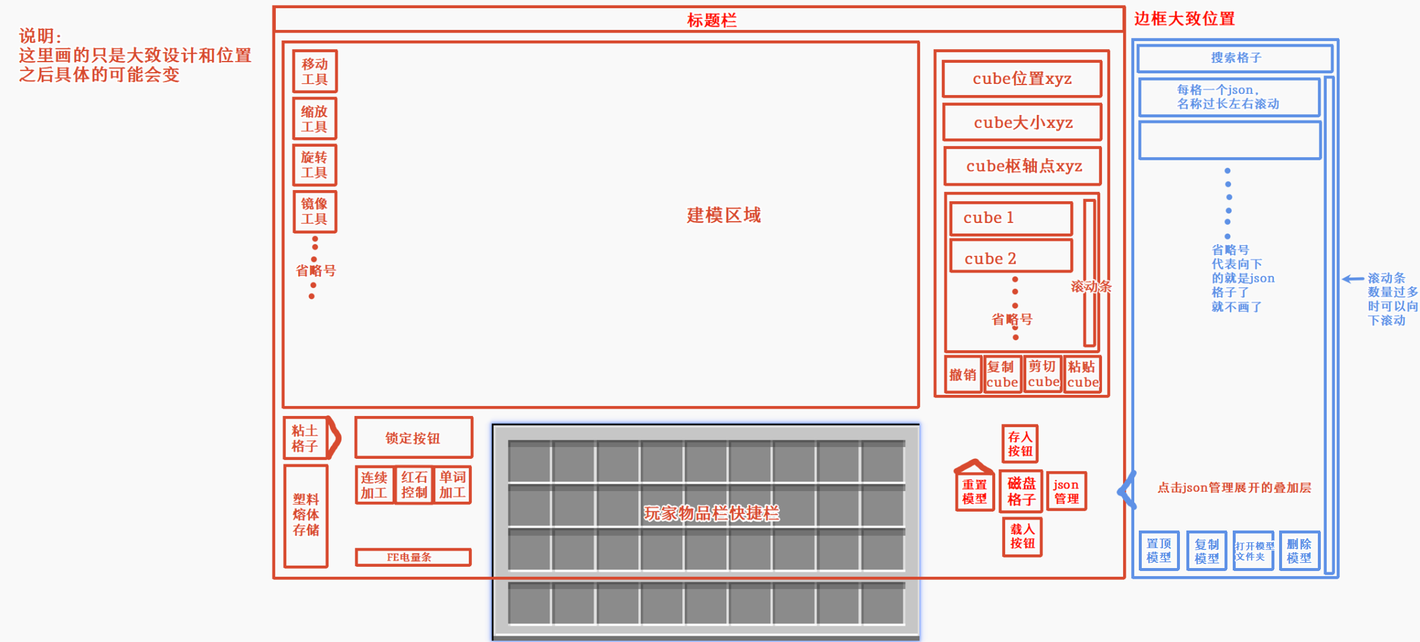
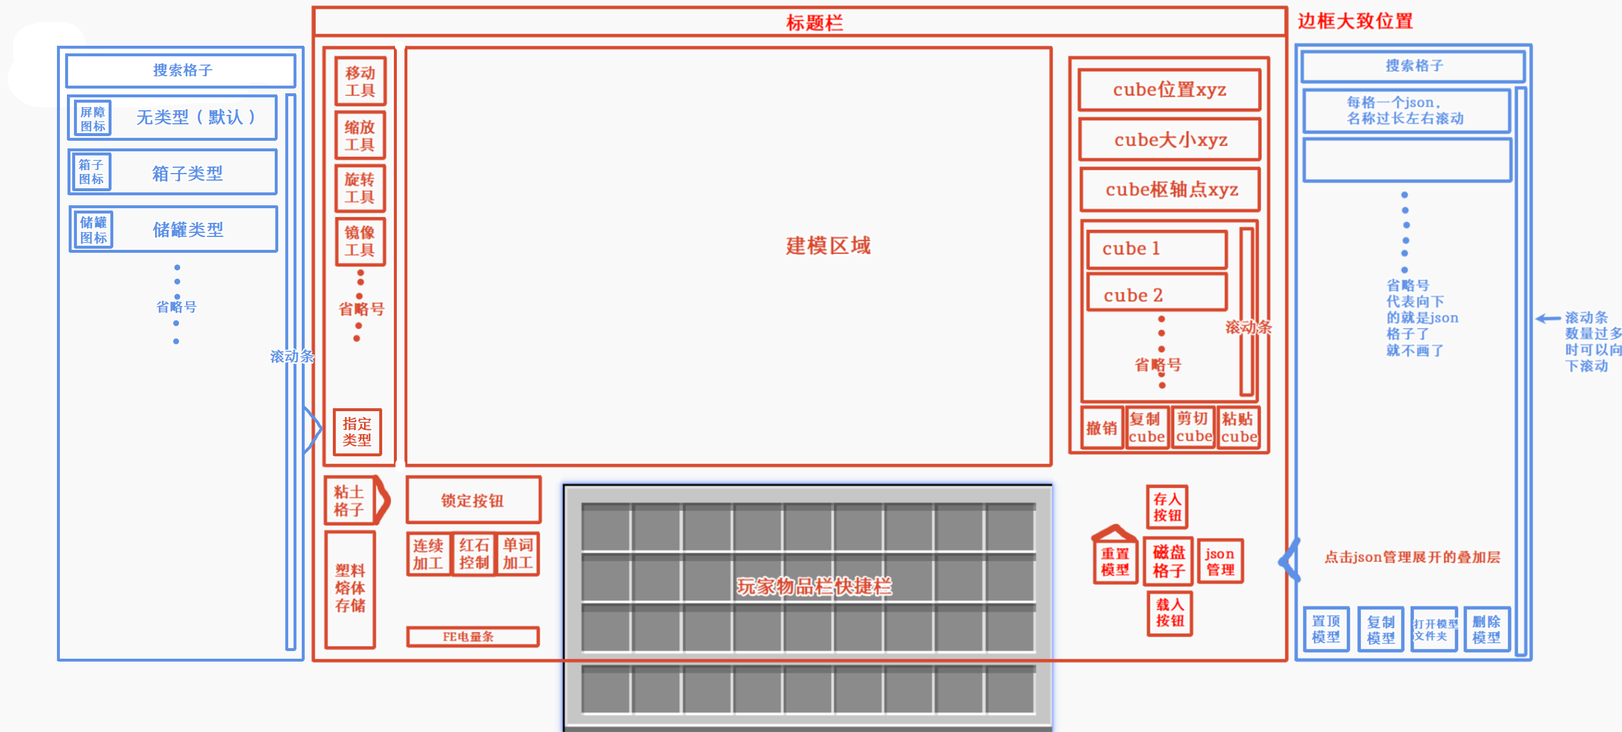
文档更新

diff --git a/docs/plastic-forming-chamber-todo.zh_cn.md b/docs/plastic-forming-chamber-todo.zh_cn.md
@@ -10,15 +10,17 @@
 
 ## 0. 资源清单
 
-| 资源 | 需要制作的文件 | 内容 |
-| --- | --- | --- |
-| 塑料成型舱未锁定模型 | 方块模型 JSON | 成型舱未锁定时使用的完整方块模型 |
-| 塑料成型舱锁定模型 | 方块模型 JSON | 成型舱锁定后使用的完整方块模型 |
-| 塑料成型区边框 | 方块模型 JSON | 成型舱后方的3x3x3区域的边框模型 |
-| 塑料成型舱物品模型 | 物品模型 JSON | 背包、手持和掉落时使用的模型 |
-| 成型舱 GUI 主背景 | PNG 贴图 | 成型舱主界面的完整背景和各功能区域底图 |
-| JSON 管理叠加层 | PNG 贴图 | 点击“JSON 管理”后展开的叠加层背景 |
-| 成型舱 GUI 控件图集 | PNG 图集 | 全部建模操作按钮、机器控制按钮、磁盘与 JSON 管理按钮、输入框、滚动条、槽位和资源条； |
+| 资源           | 需要制作的文件   | 内容                                                      |
+|--------------|-----------|---------------------------------------------------------|
+| 塑料成型舱未锁定模型   | 方块模型 JSON | 成型舱未锁定时使用的完整方块模型                                        |
+| 塑料成型舱锁定模型    | 方块模型 JSON | 成型舱锁定后使用的完整方块模型                                         |
+| 塑料成型区边框      | 方块模型 JSON | 成型舱后方的3x3x3区域的边框模型                                      |
+| 塑料成型舱物品模型    | 物品模型 JSON | 背包、手持和掉落时使用的模型                                          |
+| 成型舱 GUI 主背景  | PNG 贴图    | 成型舱主界面的完整背景和各功能区域底图                                     |
+| 类型选择叠加层      | PNG 贴图    | 点击“指定类型”后从主界面左侧展开的叠加层背景                                 |
+| JSON 管理叠加层   | PNG 贴图    | 点击“JSON 管理”后展开的叠加层背景                                    |
+| 成型舱 GUI 控件图集 | PNG 图集    | 全部建模操作按钮、类型指定按钮与图标、机器控制按钮、磁盘与 JSON 管理按钮、输入框、滚动条、槽位和资源条； |
+| 标准塑料贴图       | PNG 贴图    | 资源文件里16x16的标准塑料块单个面的贴图，用于程序生成的基准                        |
 
 ## 1. 核心目标和已经确定的原则
 
@@ -49,15 +51,15 @@
 
 ### 2.2 世界显示和碰撞阶段
 
-| 阶段 | 成型区域显示 | 区域碰撞 | 8 B 暂存罐的外部接口 | 向成型区域泵送 |
-| --- | --- | --- | --- | --- |
-| 空模型 | 只显示 3x3x3 边框 | 无碰撞 | 随时允许输入，按第 4.3 节允许抽出 | 不泵送 |
-| 正在建模 | 边框中心实时显示空间投影模型 | 投影与区域均无碰撞 | 随时允许输入和抽出 | 不泵送 |
-| 等待区域清空 | 冻结本次模型；粘土动画尚未开始，GUI 显示“区域被阻塞” | 无碰撞 | 随时允许输入和抽出 | 不泵送 |
-| 粘土填充动画 | 模型投影隐藏，粘土块纹理从 `-Y` 向 `+Y` 逐层快速升起 | 动画开始的同一事务内立即变为完整 3x3x3 碰撞，暂停时仍保持 | 随时允许输入和抽出 | 不泵送，必须等粘土填充完毕 |
-| 模具完成/灌入熔体 | 27 格外观均为填满的粘土块纹理，内部熔体不穿透显示 | 完整 3x3x3 碰撞 | 随时允许输入和抽出 | 有效供电且模型保持锁定时，以固定 `2 B/gt` 泵送至 `M(V)` |
-| 落砧加工 | 内部塑料固化；27 格产生粘土块破坏粒子，粘土外观全部消失 | 事务提交时移除模具的完整碰撞 | 随时允许输入和抽出 | 事务期间暂停，不把暂存熔体瞬间并入本批 |
-| 加工完成/等待下一周期 | 塑料制品与等量回收粘土球均在原 3x3x3 成型区域中产生 | 区域部件恢复无碰撞；只保留塑料实体自身碰撞，物品结果为掉落物 | 随时允许输入和抽出 | 下一副模具完成前不泵送 |
+| 阶段          | 成型区域显示                           | 区域碰撞                             | 8 B 暂存罐的外部接口        | 向成型区域泵送                              |
+|-------------|----------------------------------|----------------------------------|---------------------|--------------------------------------|
+| 空模型         | 只显示 3x3x3 边框                     | 无碰撞                              | 随时允许输入，按第 4.3 节允许抽出 | 不泵送                                  |
+| 正在建模        | 边框中心实时显示空间投影模型                   | 投影与区域均无碰撞                        | 随时允许输入和抽出           | 不泵送                                  |
+| 等待区域清空      | 冻结本次模型；粘土动画尚未开始，GUI 显示“区域被阻塞”    | 无碰撞                              | 随时允许输入和抽出           | 不泵送                                  |
+| 粘土填充动画      | 模型投影隐藏，粘土块纹理从 `-Y` 向 `+Y` 逐层快速升起 | 动画开始的同一事务内立即变为完整 3x3x3 碰撞，暂停时仍保持 | 随时允许输入和抽出           | 不泵送，必须等粘土填充完毕                        |
+| 模具完成/灌入熔体   | 27 格外观均为填满的粘土块纹理，内部熔体不穿透显示       | 完整 3x3x3 碰撞                      | 随时允许输入和抽出           | 有效供电且模型保持锁定时，以固定 `2 B/gt` 泵送至 `M(V)` |
+| 落砧加工        | 内部塑料固化；27 格产生粘土块破坏粒子，粘土外观全部消失    | 事务提交时移除模具的完整碰撞                   | 随时允许输入和抽出           | 事务期间暂停，不把暂存熔体瞬间并入本批                  |
+| 加工完成/等待下一周期 | 塑料制品与等量回收粘土球均在原 3x3x3 成型区域中产生    | 区域部件恢复无碰撞；只保留塑料实体自身碰撞，物品结果为掉落物   | 随时允许输入和抽出           | 下一副模具完成前不泵送                          |
 
 1. 建模投影是空间投影，不参与任何碰撞、寻路或实体推动。模型每次有效修改后，世界内投影实时更新。
 2. 点击锁定或自动锁定会先冻结模型，但只在粘土填充动画真正开始前检查一次 3x3x3 区域。只要玩家、掉落物、上一件塑料实体或其他实体与将启用的完整碰撞相交，就不开始动画、不扣取本周期第一份粘土，并在 GUI 显示“区域被阻塞”；条件清除后自动重试。
@@ -98,23 +100,24 @@
 
 ### 3.3 GUI 设计草图和主界面
 
-下图是当前已经确定的 GUI 设计稿。红框为常驻主界面，蓝框为点击“JSON 管理”后才展开的右侧叠加层。草图中的文字只说明功能和大致位置，不是最终美术稿，也不是可直接照图实现的像素坐标规格；资源制作与最终版修订期间可以调整具体间距和比例，但不得遗漏本节已经确定的控件、状态或红/蓝两层关系。
+下图是当前已经确定的 GUI 设计稿。红框为常驻主界面；左侧蓝框是点击“指定类型”后展开的类型选择叠加层，右侧蓝框是点击“JSON 管理”后展开的模型管理叠加层。草图中的文字只说明功能和大致位置，不是最终美术稿，也不是可直接照图实现的像素坐标规格；资源制作与最终版修订期间可以调整具体间距和比例，但不得遗漏本节已经确定的控件、状态或三部分界面关系。
 
 ![塑料成型舱 GUI 设计草图](assets/plastic-forming-chamber/gui-layout-draft.png)
 
-当前设计稿阶段不提供元素坐标清单。所有模型、贴图及其他 GUI 资源完成后，最终实现版必须在本节定义统一的 GUI 像素坐标原点，并逐项列出常驻主界面、建模程序宿主区域、玩家物品栏和 JSON 管理叠加层中每一个元素的像素坐标位置。TODO 实现只能使用该最终坐标规格，不能测量本草图或凭视觉比例反推坐标。
+当前设计稿阶段不提供元素坐标清单。所有模型、贴图及其他 GUI 资源完成后，最终实现版必须在本节定义统一的 GUI 像素坐标原点，并逐项列出常驻主界面、建模程序宿主区域、玩家物品栏、类型选择叠加层和 JSON 管理叠加层中每一个元素的像素坐标位置。TODO 实现只能使用该最终坐标规格，不能测量本草图或凭视觉比例反推坐标。
 
-| 大致位置 | 区域 | 必须包含的内容 |
-| --- | --- | --- |
-| 顶部整行 | 标题栏 | “塑料成型舱”标题、关闭入口，以及不遮挡建模的宿主窗口区域 |
-| 左侧竖栏 | 建模工具 | 草图指定的移动、缩放尺寸、旋转、镜像，以及新建 cube/平面、选择等必要扩展工具；当前工具有明确选中态和悬浮提示 |
-| 中央主体 | 嵌入式三维建模程序 | 与世界成型区域一一对应的 3x3x3 大网格、东西南北/上下标识、机器连接位置、透视/正交相机、选择高亮、操纵轴和制造预览 |
-| 主体右栏上部 | 选中元素属性 | 当前 cube/平面的位置 `x/y/z`、大小 `x/y/z`、枢轴点 `x/y/z` 和旋转；数值可直接输入并参与撤销/重做 |
-| 主体右栏中下部 | 元素列表与编辑 | 可滚动的 cube/平面/分组树，以及撤销、重做、复制、剪切和粘贴；列表选择与视口选择双向同步 |
-| 右栏属性区内 | 制造分析 | 普通制品/箱子/储罐选择、验证结果、容量、实体积、粘土总需求、当前可成型体积和部分加工降级警告；托盘本期不出现在类型选择器中 |
-| 左下机器区 | 原料与运行控制 | 单个粘土球过滤槽、塑料熔体竖向储量条、锁定/解锁按钮、三种生产模式和 FE 电量条 |
-| 下方中央 | 玩家物品栏 | 完整玩家背包和快捷栏，槽位行为遵循原版容器界面 |
-| 右下蓝图区 | 磁盘与模型管理 | 重置模型、磁盘格、磁盘“存入”“载入”按钮和“JSON 管理”开关；机器运行提示在不遮挡这些控件的位置显示 |
+| 大致位置    | 区域        | 必须包含的内容                                                                |
+|---------|-----------|------------------------------------------------------------------------|
+| 顶部整行    | 标题栏       | “塑料成型舱”标题、关闭入口，以及不遮挡建模的宿主窗口区域                                          |
+| 左侧竖栏    | 建模工具与类型入口 | 草图指定的移动、缩放尺寸、旋转、镜像，以及新建 cube/平面、选择等必要扩展工具；下部放置“指定类型”按钮；当前工具有明确选中态和悬浮提示 |
+| 主界面左侧外扩 | 类型选择叠加层   | 搜索框、普通制品/箱子/储罐类型列表、图标、名称、选中态和滚动条；                                      |
+| 中央主体    | 嵌入式三维建模程序 | 与世界成型区域一一对应的 3x3x3 大网格、东西南北/上下标识、机器连接位置、透视/正交相机、选择高亮、操纵轴和制造预览          |
+| 主体右栏上部  | 选中元素属性    | 当前 cube/平面的位置 `x/y/z`、大小 `x/y/z`、枢轴点 `x/y/z` 和旋转；数值可直接输入并参与撤销/重做       |
+| 主体右栏中下部 | 元素列表与编辑   | 可滚动的 cube/平面/分组树，以及撤销、重做、复制、剪切和粘贴；列表选择与视口选择双向同步                        |
+| 右栏属性区内  | 制造分析      | 当前指定类型、验证结果、容量、实体积、粘土总需求、当前可成型体积和部分加工降级警告                              |
+| 左下机器区   | 原料与运行控制   | 单个粘土球过滤槽、塑料熔体竖向储量条、锁定/解锁按钮、三种生产模式和 FE 电量条                              |
+| 下方中央    | 玩家物品栏     | 完整玩家背包和快捷栏，槽位行为遵循原版容器界面                                                |
+| 右下蓝图区   | 磁盘与模型管理   | 重置模型、磁盘格、磁盘“存入”“载入”按钮和“JSON 管理”开关；机器运行提示在不遮挡这些控件的位置显示                  |
 
 1. “连续加工”“红石控制”“单次加工”是一个三选一互斥控件，默认为“红石控制”。草图中的“单词加工”是错别字，正式文字统一为“单次加工”。
 2. 粘土格是有正常堆叠上限的过滤槽，只接受粘土球。槽位上限取物品与槽位允许值的较小者，当前通常为 64；不得实现为无堆叠限制的 108 球数字仓。
@@ -123,11 +126,18 @@
 5. 锁定按钮根据编辑、区域被阻塞、等待粘土、正在填充、模具完成和正在加工状态切换文字与可用性。锁定后模型属性和破坏性编辑禁用，但资源条、模式状态与合法的解锁入口仍可见；区域阻止粘土动画启动时必须直接显示“区域被阻塞”，不能笼统显示为缺料或断电。
 6. 点击“重置模型”第一次只显示“按住 Shift 再次点击以确认”，不清空数据；玩家按住 Shift 再次点击后才删除当前工作空间中的全部元素、分组和选择，并重算投影与分析结果。它只在可编辑状态可用，不删除磁盘或 JSON 文件。
 7. 磁盘格上方为“存入”、下方为“载入”，遵守第 10 节的空磁盘与二次载入流程。“JSON 管理”只切换右侧叠加层，不等同于磁盘载入。
-8. 主界面和右侧叠加层必须适配小窗口、高 GUI 缩放和超宽屏。属性栏与玩家物品栏可按预定断点重排，但不得让按钮、文字、槽位、方向标识或建模视口互相覆盖。建模视口必须保留可实际操作的最小尺寸，不能被物品栏压成只能预览的小窗。
+8. 主界面和左右两侧叠加层必须适配小窗口、高 GUI 缩放和超宽屏。属性栏与玩家物品栏可按预定断点重排，但不得让按钮、文字、槽位、方向标识或建模视口互相覆盖。建模视口必须保留可实际操作的最小尺寸，不能被物品栏压成只能预览的小窗。
 
-### 3.4 JSON 管理叠加层
+### 3.4 类型选择叠加层
 
-1. 草图中的蓝色框是从主界面右侧展开的 JSON 管理叠加层。每次新打开成型舱 UI 时它都默认关闭；点击“JSON 管理”展开，再点击同一按钮关闭，不记忆上次开关状态。
+1. “指定类型”按钮固定在主界面左侧建模工具栏下部。点击后从主界面左侧展开类型选择叠加层，再点击同一按钮关闭；每次新打开成型舱 UI 时叠加层默认关闭，当前已指定类型仍保存在成型舱中。
+2. 顶部搜索框按本地化名称过滤类型。下方列表来自类型注册表，每项显示图标、名称和选中态；当前版本只列出普通制品、箱子和储罐，普通制品为默认项，托盘在功能补完前不显示。项目超过可视范围时使用右侧纵向滚动条。
+3. 选择类型只更新当前模型的指定类型并立即请求服务器重新验证，不会锁定或加工模型。普通制品始终有效；箱子或储罐验证失败时保留玩家选择和编辑状态，在制造分析区显示“这个形状好像不能做这件事”及具体原因，并在修正形状前禁止锁定。
+4. 左侧类型叠加层和右侧 JSON 管理叠加层分别由各自按钮控制，打开或关闭任一侧都不会修改模型、选择、撤销历史或另一侧的开关状态。两侧叠加层的展开状态都不持久化。
+
+### 3.5 JSON 管理叠加层
+
+1. 草图中的右侧蓝框是从主界面右侧展开的 JSON 管理叠加层。每次新打开成型舱 UI 时它都默认关闭；点击“JSON 管理”展开，再点击同一按钮关闭，不记忆上次开关状态。
 2. 叠加层不替换建模会话。展开或关闭不会提交、回滚、锁定或清空当前模型；空间不足时可以覆盖主界面右侧的一部分，但必须保持明确层级并允许一键关闭。
 3. 顶部搜索框按文件名、模型名和 owner 过滤共享蓝图库。下方列表每行代表一个 JSON/蓝图文件并显示选中态；名称过长时在行内水平滚动或跑马显示，文件数量超过可视范围时使用右侧纵向滚动条。
 4. 列表保留“上传模型”入口，用于选择本地 JSON/`.bbmodel` 并按第 10 节上传到共享库。草图未单独标出时，将它放在搜索框旁的导入图标或列表工具栏中，不得删除上传功能。
@@ -173,22 +183,25 @@
 
 1. 模型实体积记为 `V` 立方像素。成型区域本周期可容纳的熔体上限为：
 
-   `M(V) = max(V, 250) mB`。
+   `M(V) = max(ceil(V / 4), 250) mB`。
 
-2. 成型舱本体另有固定 `8 B = 8000 mB` 暂存罐。它和成型区域是两个独立容量：暂存罐最多 8000 mB，成型区域最多 `M(V)`，两者同时装有熔体时允许总量达到 `8000 + M(V)` mB；不得用 `M(V)` 限制暂存罐，也不得把暂存量算作已经填入模型。
+   制造换算固定为 `1 mB = 4` 立方像素，除法结果向上取整。最大实心模型的 `V = 110592`，因此成型区域最多需要 `27648 mB = 27.648 B`。
+
+2. 成型舱本体另有固定 `8 B = 8000 mB` 暂存罐。它和成型区域是两个独立容量：暂存罐最多 8000 mB，成型区域最多 `M(V)`，两者同时装有熔体时允许总量达到 `8000 + M(V)` mB；最大实心模型对应的总量为 `35648 mB`。不得用 `M(V)` 限制暂存罐，也不得把暂存量算作已经填入模型。
 3. 底面固定暴露流体能力。只要流体属于 Plasticraft 的塑料熔体且暂存罐尚有兼容空间，外部就能向 8 B 暂存罐输入；空模型、正在编辑、未锁定、结构不完整、断电、加工事务和等待下一周期都不能仅因机器阶段拒绝输入。外部抽取同样不依赖供电，并可按能力视图排空暂存罐或尚未加工的成型区域熔体。“随时允许”不绕过容量、流体身份兼容和服务器事务一致性检查。
 4. 机器只有在模型已锁定、粘土模具全部填充、结构完整且有效供电时，才把暂存罐中的熔体泵入成型区域。泵送速率固定为每游戏刻 `2 B/gt = 2000 mB/gt`，每刻实际转移量为 2000 mB、暂存量和成型区域剩余容量三者的最小值；暂存空间一释放，外部管道即可继续补入。
 5. 成型区域第一次收到熔体时锁定本批的完整 `FluidStack` 身份，包括流体 ID、材料、颜色和组件。区域中仍有本批熔体时，暂存罐只能接收与其完全一致的熔体；两种不同塑料熔体不得混合或静默覆盖。区域清空后，非空暂存罐中的流体可成为下一批身份。
 6. 每次加工至少要求并消耗成型区域内的 `250 mB` 塑料熔体。暂存罐中的数量不参与 250 mB 门槛；即使暂存罐已满，只要成型区域不足 250 mB 就不能加工。
-7. 当 `V >= 250` 时，成型区域未装满仍可加工，但其中必须至少有 250 mB。实际有体积部分取 `fillOrder` 的前“成型区域当前 mB”个单元；最大模型可在外部管道持续补充暂存罐时累计泵入 `110592 mB` 并完整成型。
-8. 当 `V < 250` 时，成型区域只有达到 250 mB 才能加工，并直接得到完整有体积形状；超过实体积的熔体属于最低批次损耗，不生成额外体积。
-9. 纯平面模型在成型区域达到 250 mB 后可单独加工；这 250 mB 同时提供成品的材料类型和颜色。
-10. 普通模型中的平面只在至少一个相邻模型体积单元已经成型时进入部分结果；没有任何体积单元的纯平面模型在满足 250 mB 后包含全部平面。
-11. 部分结果在加工前重新运行功能类型算法。若不再满足箱子或储罐条件，则允许加工，但自动降级为普通制品；GUI、Jade 和铁砧锤浮窗要提前显示“本次结果将降级”。托盘本期不参与选择或降级判定。
-12. 成品继承成型区域本批实际熔体的类型、颜色和相关材料组件，而不是读取加工时仍留在 8 B 暂存罐中的流体。
-13. 收到落砧加工事件后立即暂停泵送，并以事务开始时已经位于成型区域中的熔体冻结加工快照；不得绕过 `2 B/gt`，把暂存罐余量瞬间提交到本批。加工成功只消耗并清空成型区域熔体，8 B 暂存罐中的剩余熔体数量和身份完全保留，可供以后批次继续使用。
-14. 暂存罐中有熔体不妨碍编辑、重置模型、手动解锁或从磁盘载入模型。只有成型区域内已经存在批次熔体时，才拒绝解锁、重置或覆盖模型，并提示先从底面抽空成型区域；这些操作不得自动删除任何一处熔体。
-15. 破坏成型舱时，8 B 暂存罐中的熔体不生成掉落物，也不写入掉落的成型舱物品或其他容器，随被破坏的方块实体直接舍弃。粘土球和磁盘仍分别按第 4.2 节与第 10 节的物品规则掉落。
+7. 设落砧加工快照中成型区域已有 `F` mB 熔体。通过 250 mB 最低门槛后，实际有体积部分取 `fillOrder` 的前 `min(V, 4F)` 个单元；同一 mB 对应的 4 个单元仍严格按既定顺序依次选择。
+8. 当 `V > 1000` 且 `F < ceil(V / 4)` 时得到部分结果。最大模型可在外部管道持续补充暂存罐时累计泵入 `27648 mB` 并完整成型。
+9. 当 `0 < V <= 1000` 时，成型区域只有达到 250 mB 才能加工，并直接得到完整有体积形状；未用于实体积的材料属于最低批次损耗。若 `V` 不能被 4 整除，完整成型所需最后 1 mB 中未对应到完整立方像素的部分同样作为换算取整损耗，不跨批次保留。
+10. 纯平面模型在成型区域达到 250 mB 后可单独加工；这 250 mB 同时提供成品的材料类型和颜色。
+11. 普通模型中的平面只在至少一个相邻模型体积单元已经成型时进入部分结果；没有任何体积单元的纯平面模型在满足 250 mB 后包含全部平面。
+12. 部分结果在加工前重新运行功能类型算法。若不再满足箱子或储罐条件，则允许加工，但自动降级为普通制品；GUI、Jade 和铁砧锤浮窗要提前显示“本次结果将降级”。托盘本期不参与选择或降级判定。
+13. 成品继承成型区域本批实际熔体的类型、颜色和相关材料组件，而不是读取加工时仍留在 8 B 暂存罐中的流体。
+14. 收到落砧加工事件后立即暂停泵送，并以事务开始时已经位于成型区域中的熔体冻结加工快照；不得绕过 `2 B/gt`，把暂存罐余量瞬间提交到本批。加工成功只消耗并清空成型区域熔体，8 B 暂存罐中的剩余熔体数量和身份完全保留，可供以后批次继续使用。
+15. 暂存罐中有熔体不妨碍编辑、重置模型、手动解锁或从磁盘载入模型。只有成型区域内已经存在批次熔体时，才拒绝解锁、重置或覆盖模型，并提示先从底面抽空成型区域；这些操作不得自动删除任何一处熔体。
+16. 破坏成型舱时，8 B 暂存罐中的熔体不生成掉落物，也不写入掉落的成型舱物品或其他容器，随被破坏的方块实体直接舍弃。粘土球和磁盘仍分别按第 4.2 节与第 10 节的物品规则掉落。
 
 ## 5. 电力、物品能力、红石和生产模式
 
@@ -215,11 +228,11 @@
 
 GUI 使用三段模式选择，默认值为“红石控制”：
 
-| 模式 | 加工完成后的状态 | 红石行为 |
-| --- | --- | --- |
-| 连续加工 | 保留模型和类型，只清空成型区域熔体与本周期模具计数，保留 8 B 暂存熔体并等量掉落回收粘土；制品、粘土掉落物和其他实体离开区域后自动尝试下一批 | 忽略红石锁定控制 |
-| 红石控制（默认） | 保留模型和类型但返回可编辑/未锁定状态，只清空成型区域熔体与本周期模具计数，保留 8 B 暂存熔体并等量掉落回收粘土 | 只在红石上升沿发起自动锁定 |
-| 单次加工 | 保留模型和类型但返回可编辑/未锁定状态，只清空成型区域熔体与本周期模具计数，保留 8 B 暂存熔体并等量掉落回收粘土 | 忽略红石锁定控制 |
+| 模式       | 加工完成后的状态                                                                 | 红石行为          |
+|----------|--------------------------------------------------------------------------|---------------|
+| 连续加工     | 保留模型和类型，只清空成型区域熔体与本周期模具计数，保留 8 B 暂存熔体并等量掉落回收粘土；制品、粘土掉落物和其他实体离开区域后自动尝试下一批 | 忽略红石锁定控制      |
+| 红石控制（默认） | 保留模型和类型但返回可编辑/未锁定状态，只清空成型区域熔体与本周期模具计数，保留 8 B 暂存熔体并等量掉落回收粘土               | 只在红石上升沿发起自动锁定 |
+| 单次加工     | 保留模型和类型但返回可编辑/未锁定状态，只清空成型区域熔体与本周期模具计数，保留 8 B 暂存熔体并等量掉落回收粘土               | 忽略红石锁定控制      |
 
 1. 红石上升沿只在模型未锁定时创建一次自动锁定请求，不因持续高电平反复触发。请求成功锁存后，即使信号随后回落也不会自动解锁；一次加工结束时若信号仍保持高电平，同样不视为新的上升沿。
 2. 上升沿先冻结当时的模型修订。区域内有玩家、制品、掉落物或其他实体时，请求保持在粘土动画开始前并显示“区域被阻塞”；FE 与第一份粘土可用且区域清空后，单次检查通过并原子启用完整碰撞。动画开始后若继续缺粘土或缺电，则在保持完整碰撞的状态下暂停，等待溜槽补充或供电恢复。只有玩家在 GUI 中明确取消/解锁才撤销已锁存但尚未完成的请求，并按第 4.2 节退还已进入模具的粘土。
@@ -332,7 +345,7 @@ GUI 使用三段模式选择，默认值为“红石控制”：
 ## 10. 磁盘、JSON 和共享蓝图库
 
 1. 复用 AnvilCraft 本体 `DiskItem`/`DISK_DATA`，成型舱实现磁盘兼容接口，不新增重复蓝图物品。
-2. GUI 包含本体磁盘专用格、格子上方的“存入”、格子下方的“载入”，以及独立的“JSON 管理”按钮。无磁盘时存入/载入禁用；放入空磁盘后灰色“存入”按钮进入可点击显示，未锁定时点击仍提示“需要先锁定”。“JSON 管理”不依赖磁盘，只负责切换第 3.4 节叠加层。
+2. GUI 包含本体磁盘专用格、格子上方的“存入”、格子下方的“载入”，以及独立的“JSON 管理”按钮。无磁盘时存入/载入禁用；放入空磁盘后灰色“存入”按钮进入可点击显示，未锁定时点击仍提示“需要先锁定”。“JSON 管理”不依赖磁盘，只负责切换第 3.5 节叠加层。
 3. 已锁定时点击“存入”，把模型和所选功能类型写入磁盘，并把标准 JSON 保存到世界共享蓝图库。文件所有者是实际点击“存入”的玩家，不是机器放置者。
 4. 蓝图库对所有玩家可见和可载入。文件记录 owner UUID/名称；所有者和管理员可以覆盖、重命名或删除，其他玩家默认只能读取并写出自己的副本。
 5. JSON 叠加层只能由“JSON 管理”按钮展开或关闭，点击空磁盘的“载入”不自动展开。玩家先在叠加层搜索并选中共享模型；没有选中项时，空磁盘点击“载入”只提示先打开 JSON 管理并选择模型。
@@ -345,25 +358,25 @@ GUI 使用三段模式选择，默认值为“红石控制”：
 12. 把已有数据磁盘载入成型舱时，只有 `EDITABLE`、成型区域批次熔体为 0 且没有预留粘土时才允许覆盖。8 B 暂存罐可以非空，载入模型不得清空或改写其中的熔体。当前有未保存编辑则显示模型名称/哈希差异并二次确认；机器已成模、正在加工或成型区域仍有熔体时直接拒绝并说明如何解锁/抽空，不能静默吞资源。
 13. 向已有数据磁盘“存入”或用同名文件保存时必须显示覆盖确认，默认生成不冲突文件名。失败的文件写入不能改变磁盘原数据；磁盘写入和 JSON 原子替换要么都成功，要么保留可恢复的一致状态。
 14. 服务器蓝图库建议位于 `<world>/anvilcraftplasticraft/blueprints/`；客户端只上传白名单扩展名、受限大小和深度的文本。禁止路径穿越、符号链接逃逸、任意服务器路径读取和外部父模型解析；允许的父模型只能来自明确白名单并在导入时展开为自包含蓝图。
-15. 上传、置顶、复制、打开模型文件夹和 Shift 二次确认删除的完整交互按第 3.4 节执行。复制和上传产生的新文件归操作者所有；置顶只改变操作者自己的排序；打开文件夹不能泄露远程服务器路径；删除始终由服务端复核权限。
+15. 上传、置顶、复制、打开模型文件夹和 Shift 二次确认删除的完整交互按第 3.5 节执行。复制和上传产生的新文件归操作者所有；置顶只改变操作者自己的排序；打开文件夹不能泄露远程服务器路径；删除始终由服务端复核权限。
 
 ## 11. 状态机和失败回滚
 
-| 状态 | 模型可编辑 | 预留粘土 | 区域碰撞 | 8 B 暂存罐外部输入 | 向成型区域泵送 | 可落砧加工 |
-| --- | --- | --- | --- | --- | --- | --- |
-| `EDITABLE` | 是 | 0 | 无 | 是 | 否 | 否 |
-| `WAITING_TO_LOCK` | 否，等待区域/首份粘土/供电 | 0 | 无 | 是 | 否 | 否 |
-| `MOLD_FILLING` | 否 | `0..总需求`，边收料边增加 | 完整 3x3x3 | 是 | 否 | 否 |
-| `MOLD_READY` | 否 | 已达到总需求 | 完整 3x3x3 | 是 | 有效供电时固定 `2 B/gt`，至 `M(V)` | 否，成型区域熔体不足 |
-| `PROCESS_READY` | 否 | 已达到总需求 | 完整 3x3x3 | 是 | 有效供电时固定 `2 B/gt`，至 `M(V)` | 有效供电且结构合法时是 |
-| `PROCESSING` | 否 | 待清零并等量回收 | 事务提交时移除 | 是 | 否 | 事务进行中 |
-| `WAITING_NEXT_CYCLE` | 否，连续模式保留冻结蓝图 | 0 | 无 | 是 | 否 | 否 |
+| 状态                   | 模型可编辑          | 预留粘土            | 区域碰撞     | 8 B 暂存罐外部输入 | 向成型区域泵送                   | 可落砧加工       |
+|----------------------|----------------|-----------------|----------|-------------|---------------------------|-------------|
+| `EDITABLE`           | 是              | 0               | 无        | 是           | 否                         | 否           |
+| `WAITING_TO_LOCK`    | 否，等待区域/首份粘土/供电 | 0               | 无        | 是           | 否                         | 否           |
+| `MOLD_FILLING`       | 否              | `0..总需求`，边收料边增加 | 完整 3x3x3 | 是           | 否                         | 否           |
+| `MOLD_READY`         | 否              | 已达到总需求          | 完整 3x3x3 | 是           | 有效供电时固定 `2 B/gt`，至 `M(V)` | 否，成型区域熔体不足  |
+| `PROCESS_READY`      | 否              | 已达到总需求          | 完整 3x3x3 | 是           | 有效供电时固定 `2 B/gt`，至 `M(V)` | 有效供电且结构合法时是 |
+| `PROCESSING`         | 否              | 待清零并等量回收        | 事务提交时移除  | 是           | 否                         | 事务进行中       |
+| `WAITING_NEXT_CYCLE` | 否，连续模式保留冻结蓝图   | 0               | 无        | 是           | 否                         | 否           |
 
 1. `WAITING_TO_LOCK -> MOLD_FILLING` 是唯一的启动边界：服务端在该边界检查一次区域实体，并在同一提交中启动粘土动画和启用完整 3x3x3 碰撞。检查失败则保持 `WAITING_TO_LOCK`，GUI 显示“区域被阻塞”且不扣第一份粘土；检查成功后，动画末层不再检查区域实体。
 2. `MOLD_FILLING` 可以在粘土过滤槽为空或失电时长期暂停，但完整碰撞始终保留。补料/供电后从已保存的粘土计数和动画进度继续；只有累计取得全部需求后才能进入 `MOLD_READY`，不存在“64 球用完就把剩余模具免费补齐”的路径。
 3. `MOLD_READY` 与 `PROCESS_READY` 只由成型区域熔体是否达到 250 mB 自动切换，8 B 暂存量不计入门槛。抽出成型区域熔体后可以从后者退回前者；每个正常游戏刻最多按 `2 B/gt` 从暂存罐泵入，落砧事件不能触发额外转移。
 4. 加工完成后，三种模式都保留模型、类型和 8 B 暂存熔体，只清空成型区域批次熔体与已成模粘土计数，并按清零前的数量在成型区域等量产生粘土球。连续模式进入 `WAITING_NEXT_CYCLE`，在区域内的物品制品、塑料实体、回收粘土和其他实体全部移走且供电/过滤槽条件满足后自动开始下一次锁定；红石控制和单次模式回到 `EDITABLE`，区别只在是否接受下一次红石上升沿。
-5. 模型、互斥模式、红石上次电平、待锁定请求、动画进度、槽内/已成模粘土、8 B 暂存熔体、成型区域批次熔体、内部 FE、磁盘和等待原因都要分别持久化。加工结果不进入机器持久化数据，粘土动画结束后也没有额外等待状态。JSON 叠加层开关不持久化，每次打开 UI 都从关闭开始。
+5. 模型、互斥模式、红石上次电平、待锁定请求、动画进度、槽内/已成模粘土、8 B 暂存熔体、成型区域批次熔体、内部 FE、磁盘和等待原因都要分别持久化。加工结果不进入机器持久化数据，粘土动画结束后也没有额外等待状态。类型选择和 JSON 管理两个叠加层的开关都不持久化，每次打开 UI 都从关闭开始。
 6. 所有编辑和按钮包携带成型舱位置与客户端修订号；服务器检查玩家距离、权限、菜单会话、区块和修订号。
 7. 锁定、解锁、加工、粘土回收掉落、文件写入和物品/流体转移都执行“先模拟、后提交”。任何异常恢复到提交前状态，并记录可定位的错误日志；区块重载不得重复掉落回收粘土。
 8. 区块卸载时不推进动画或事务；重新加载后从保存的阶段继续，不重复扣料、泵送或生成结果。`MOLD_FILLING`、`MOLD_READY` 和 `PROCESS_READY` 的区域部件必须在实体开始活动前恢复完整碰撞，这是既有碰撞状态的恢复，不再执行第二次实体阻塞检查。
@@ -393,7 +406,7 @@ GUI 使用三段模式选择，默认值为“红石控制”：
 1. 成型舱方块/物品/方块实体、27 个轻量区域部件、四个水平朝向、第 2.1 节的前-下-中锚点公式、原子展开/拆除/自愈、区域占用防放置和空态无物理碰撞。
 2. 可编辑模型数据、cube/平面/分组/变换、版本化 Codec、规范化哈希、按命令的网络编辑、1 px 制造烘焙、`volumeMask`、`barrierFaces`、`fillOrder`、表面/碰撞/内腔派生数据和存档迁移。这些内部类是本 TODO 的实现手段，不是可以单独交付的空壳。
 3. 完成嵌入运行时原型、许可证检查和最终选型，并交付真正嵌入成型舱界面的建模程序。实现第 3.2 节的全部建模、相机、撤销/重做和方向显示功能，不得以简化 Minecraft 模型小窗替代。
-4. 按第 3.3 节和已插入草图完成主界面布局、玩家物品栏、右侧属性/元素栏、资源与磁盘控件的宿主位置、Shift 二次点击重置，以及可打开/关闭但尚未连接共享文件数据的 JSON 叠加层容器。其具体磁盘/文件功能归 TODO-02。
+4. 按第 3.3 节完成主界面布局、玩家物品栏、右侧属性/元素栏、资源与磁盘控件的宿主位置、Shift 二次点击重置、左侧“指定类型”按钮和类型叠加层宿主，以及可打开/关闭但尚未连接共享文件数据的 JSON 叠加层容器。类型注册与验证归 TODO-06，具体磁盘/文件功能归 TODO-02。
 5. 实现单写者编辑租约、服务端修订校验、崩溃/断线恢复和增量世界投影同步。投影、视口网格和存档重载使用同一锚点，并在视口中持续显示当前世界的东/西/南/北/上/下。
 6. 为编解码往返、旋转烘焙、重叠并集、无厚度面、空模型、三格边界、过期命令、四个机器朝向锚点和 110592 单元极限数据建立自动测试与性能预算。
 
@@ -407,9 +420,9 @@ GUI 使用三段模式选择，默认值为“红石控制”：
 
 **前置依赖**：TODO-01 和 TODO-03。本 TODO 需要用真实的已锁定/未锁定机器状态验收“存入”限制，不得用客户端假布尔值代替。
 
-**规格范围**：第 3.3、3.4 节和第 10 节。
+**规格范围**：第 3.3、3.5 节和第 10 节。
 
-**必须交付**：复用 `DiskItem`/`DISK_DATA`；磁盘专用槽、上方“存入”/下方“载入”按钮和二次载入流程；磁盘内嵌蓝图与哈希；服务端共享 JSON 目录、owner/管理员权限与原子写入；草图中蓝色叠加层的完整列表和滚动交互；上传、搜索、置顶、复制、打开文件夹和 Shift 二次点击删除；Minecraft Java JSON 与受支持 Blockbench `.bbmodel` 导入；路径穿越、符号链接逃逸、超大/过深文件和非法元素防护。
+**必须交付**：复用 `DiskItem`/`DISK_DATA`；磁盘专用槽、上方“存入”/下方“载入”按钮和二次载入流程；磁盘内嵌蓝图与哈希；服务端共享 JSON 目录、owner/管理员权限与原子写入；草图中右侧蓝色叠加层的完整列表和滚动交互；上传、搜索、置顶、复制、打开文件夹和 Shift 二次点击删除；Minecraft Java JSON 与受支持 Blockbench `.bbmodel` 导入；路径穿越、符号链接逃逸、超大/过深文件和非法元素防护。
 
 **验收清单**：无磁盘时按钮禁用；未锁定点存入提示先锁定；空磁盘第一次载入只写磁盘、第二次才进成型舱；载入后不锁定且可编辑；8 B 暂存罐非空时仍可载入且流体不变，只有成型区域有批次熔体时才拒绝覆盖；叠加层每次打开 UI 默认关闭并且只由 JSON 管理按钮切换；长名水平滚动、长列表纵向滚动；置顶不改其他玩家排序；存入/上传/复制的 owner 正确；远程服务器只打开本地导出副本；删除与重名复核权限和修订号；磁盘在 JSON 丢失后仍可载入；不支持的模型元素列出具体错误而不静默丢形状。
 
@@ -423,9 +436,9 @@ GUI 使用三段模式选择，默认值为“红石控制”：
 
 **规格范围**：第 2.2 节、第 3.3 节的机器控件、第 4.2、4.3 节、第 5 节和第 11 节。
 
-**必须交付**：`256 kW` AnvilCraft 用电接入与等同一个超级电容器的内部 FE 储能；只收粘土球的单堆叠过滤槽与物品能力；粘土需求计算、边收料边成模、暂停/恢复/解锁退还/破坏掉落；首版 `12 gt` 填充动画、动画启动前一次实体占用检查、阻塞 GUI 提示、启动事务内立即启用的 3x3x3 完整碰撞和完整粘土纹理；底面固定的双向流体能力、任何阶段均可外部输入的独立 8 B 暂存罐、锁定且模具完成后固定 `2 B/gt` 向独立 `M(V)` 成型区域泵送、反向抽出、流体身份/颜色一致性和成型区域最少 250 mB；三种互斥模式、红石上升沿锁存、持续高电平去重、区域/缺料/供电阻塞恢复；8 B 暂存与成型区域熔体的独立持久化及破坏时舍弃暂存熔体；为 TODO-05 提供只结算成型区域熔体的原子加工快照和成功/失败状态转移。
+**必须交付**：`256 kW` AnvilCraft 用电接入与等同一个超级电容器的内部 FE 储能；只收粘土球的单堆叠过滤槽与物品能力；粘土需求计算、边收料边成模、暂停/恢复/解锁退还/破坏掉落；首版 `12 gt` 填充动画、动画启动前一次实体占用检查、阻塞 GUI 提示、启动事务内立即启用的 3x3x3 完整碰撞和完整粘土纹理；底面固定的双向流体能力、任何阶段均可外部输入的独立 8 B 暂存罐、锁定且模具完成后固定 `2 B/gt` 向按 `1 mB = 4` 立方像素计算的独立 `M(V)` 成型区域泵送、反向抽出、流体身份/颜色一致性和成型区域最少 250 mB；三种互斥模式、红石上升沿锁存、持续高电平去重、区域/缺料/供电阻塞恢复；8 B 暂存与成型区域熔体的独立持久化及破坏时舍弃暂存熔体；为 TODO-05 提供只结算成型区域熔体的原子加工快照和成功/失败状态转移。
 
-**验收清单**：单槽从 64 球用完后可由溜槽继续补到理论最多 108 球，不存在隐藏无上限槽；实体阻塞时动画不开始且 GUI 明确提示，移走后只检查一次并在动画第一帧启用完整碰撞，动画末层不做第二次占用检查；动画因缺料/失电暂停时碰撞保留；8 B 暂存罐在空模型、编辑、断电、未成模、加工和等待状态均可被外部输入；泵送只有锁定且模具完成并有电时发生，实测速率每 gt 不超过且能达到 2000 mB；暂存罐和成型区域可同时达到 `8000 mB + M(V)`，最大模型区域可累计 110592 mB；暂存熔体不妨碍解锁或覆盖，成型区域有熔体才拒绝；破坏机器不掉落或保留 8 B 暂存熔体；默认红石模式只响应一次上升沿；单次模式忽略红石；区块重载不重复取粘土、泵送或丢熔体。
+**验收清单**：单槽从 64 球用完后可由溜槽继续补到理论最多 108 球，不存在隐藏无上限槽；实体阻塞时动画不开始且 GUI 明确提示，移走后只检查一次并在动画第一帧启用完整碰撞，动画末层不做第二次占用检查；动画因缺料/失电暂停时碰撞保留；8 B 暂存罐在空模型、编辑、断电、未成模、加工和等待状态均可被外部输入；泵送只有锁定且模具完成并有电时发生，实测速率每 gt 不超过且能达到 2000 mB；暂存罐和成型区域可同时达到 `8000 mB + M(V)`，最大模型区域可累计 `27648 mB`，两处合计 `35648 mB`；暂存熔体不妨碍解锁或覆盖，成型区域有熔体才拒绝；破坏机器不掉落或保留 8 B 暂存熔体；默认红石模式只响应一次上升沿；单次模式忽略红石；区块重载不重复取粘土、泵送或丢熔体。
 
 **本项不包含**：巨型铁砧产出成品、成品渲染/碰撞和功能箱罐；加工成功后的粘土实际掉落事务在 TODO-05 与制品产出一起接入。
 
@@ -457,22 +470,22 @@ GUI 使用三段模式选择，默认值为“红石控制”：
 
 **规格范围**：第 4.3 节、第 5.3 节、第 6 节和第 11 节的完整事务。
 
-**必须交付**：由成型舱锚点推导的顶层 3x3 工作台/空间超压器两种结构；与 AnvilCraft 巨型铁砧落地事件的动态处理桥；服务器原子预检和提交；按 `(-Y -> +Y, -X -> +X, -Z -> +Z)` 的部分成型；材料/颜色/实际形状快照；在成型区域原地产生物品掉落或动态实体，机器内部不保存加工结果；水平与斜面元素的部分结果；只消耗成型区域熔体并保留 8 B 暂存余量；三种生产模式回环；固化与粘土块破坏粒子；清零已成模计数并在同一区域按加工前精确数量生成可回收粘土球掉落物；防止与本体静态多方块配方重复命中；成型舱、两种顶层结构、最低熔体和三种模式的 Ageratum/游戏内手册与 JEI 说明。
+**必须交付**：由成型舱锚点推导的顶层 3x3 工作台/空间超压器两种结构；与 AnvilCraft 巨型铁砧落地事件的动态处理桥；服务器原子预检和提交；按 `1 mB = 4` 立方像素及 `(-Y -> +Y, -X -> +X, -Z -> +Z)` 的部分成型；材料/颜色/实际形状快照；在成型区域原地产生物品掉落或动态实体，机器内部不保存加工结果；水平与斜面元素的部分结果；只消耗成型区域熔体并保留 8 B 暂存余量；三种生产模式回环；固化与粘土块破坏粒子；清零已成模计数并在同一区域按加工前精确数量生成可回收粘土球掉落物；防止与本体静态多方块配方重复命中；成型舱、两种顶层结构、最低熔体和三种模式的 Ageratum/游戏内手册与 JEI 说明。
 
-**验收清单**：中心有空间超压器只在 3x3x3 成型区域产出物品掉落，完整 3x3 工作台只在同一区域产出实体；工作台、空间超压器、成型舱和区域部件不被消耗；熔体不满时按顺序只产出当前部分形状；冲击不会把 8 B 暂存熔体瞬间并入加工，成功后只清空成型区域且暂存量逐 mB 不变；任意预检失败不吞熔体/粘土或产生半件成品；输入 1、64、108 球的测试必须分别在成型区域掉回 1、64、108 球，不因堆叠合并、与满体积制品相交或区块重载而重复/减少；物品制品、实体制品或回收粘土未移走时，连续模式显示区域阻塞且不开始下一副模具，全部移走并把粘土经物流送回后可继续；红石和单次模式加工后回到规定状态；四个成型舱朝向的顶层结构均准确命中。
+**验收清单**：中心有空间超压器只在 3x3x3 成型区域产出物品掉落，完整 3x3 工作台只在同一区域产出实体；工作台、空间超压器、成型舱和区域部件不被消耗；熔体不满时按顺序只产出当前部分形状，250 mB 对应前 1000 个立方像素，下一 1 mB 再对应后续最多 4 个；冲击不会把 8 B 暂存熔体瞬间并入加工，成功后只清空成型区域且暂存量逐 mB 不变；任意预检失败不吞熔体/粘土或产生半件成品；输入 1、64、108 球的测试必须分别在成型区域掉回 1、64、108 球，不因堆叠合并、与满体积制品相交或区块重载而重复/减少；物品制品、实体制品或回收粘土未移走时，连续模式显示区域阻塞且不开始下一副模具，全部移走并把粘土经物流送回后可继续；红石和单次模式加工后回到规定状态；四个成型舱朝向的顶层结构均准确命中。
 
 **本项不包含**：箱子、储罐或托盘的专用功能；普通制品完整生产链必须在本 TODO 结束时已可用。
 
 ### TODO-06 功能类型、无 GUI 箱子/多流体储罐和动态液面
 
-**玩家可见结果**：玩家可在建模界面选择箱子或储罐，服务器根据实际形状判定是否合格并计算不设上限的容量。加工后的箱子/储罐没有自己的 GUI，但可被物流或流体系统存取，并在 Jade/铁砧锤浮窗显示内容；复杂储罐中的多种流体随动态重力形成体积正确的斜液面。
+**玩家可见结果**：玩家可点击主界面左侧“指定类型”打开类型选择叠加层，选择箱子或储罐，由服务器根据实际形状判定是否合格并计算不设上限的容量。加工后的箱子/储罐没有自己的 GUI，但可被物流或流体系统存取，并在 Jade/铁砧锤浮窗显示内容；复杂储罐中的多种流体随动态重力形成体积正确的斜液面。
 
 **前置依赖**：TODO-04 和 TODO-05。
 
-**规格范围**：第 8.1 至 8.4 节和第 9 节；第 8.5 节的托盘预留设计明确不在范围内。
+**规格范围**：第 3.4 节、第 8.1 至 8.4 节和第 9 节；第 8.5 节的托盘预留设计明确不在范围内。
 
-**必须交付**：可扩展类型注册表、普通/箱子/储罐稳定 ID 和建模界面选择/失败提示；带 padding 的六邻接外壳/内腔洪水扫描、无厚度阻隔面、多腔求和、内部装饰拒绝和 `C/(C+S) >= 0.5`；箱子每 64 内腔单元一格、储罐每 171 内腔单元 1 B 的容量派生；部分成型重新验证和降级普通制品；无菜单任意容量物品能力；与 AnvilCraft 大型流体储罐同语义的无菜单共享容量多流体能力；内容随物品/实体往返保存与安全破坏排出；Jade/铁砧锤浮窗分页/汇总；任意重力向量下的内腔网格、等体积半空间裁切、多流体分层、透明排序、重力插值和拓扑缓存。
+**必须交付**：可扩展类型注册表、普通/箱子/储罐稳定 ID、左侧“指定类型”按钮与可搜索滚动的类型叠加层、当前选择与失败提示；带 padding 的六邻接外壳/内腔洪水扫描、无厚度阻隔面、多腔求和、内部装饰拒绝和 `C/(C+S) >= 0.5`；箱子每 64 内腔单元一格、储罐每 171 内腔单元 1 B 的容量派生；部分成型重新验证和降级普通制品；无菜单任意容量物品能力；与 AnvilCraft 大型流体储罐同语义的无菜单共享容量多流体能力；内容随物品/实体往返保存与安全破坏排出；Jade/铁砧锤浮窗分页/汇总；任意重力向量下的内腔网格、等体积半空间裁切、多流体分层、透明排序、重力插值和拓扑缓存。
 
-**验收清单**：平面可密封但无碰撞；多腔求和且内部装饰导致验证失败；箱子 `1728 -> 27`、`63 -> 失败`、`64 -> 1`；储罐 `2744 -> 16 B`、`170 -> 失败`、`171 -> 1 B`；容量不设额外上限；大容量浮窗不爆包；多种流体的 ID、组件、数量和顺序完整往返；0°/30°/45°/90° 和连续变化的重力下液体体积不变；凹形、细管、多腔和平面密封模型不穿模、不留非预期空洞、流体层不重叠；托盘不出现可用选项或猜测行为。
+**验收清单**：类型叠加层默认关闭且只由“指定类型”按钮切换，搜索、滚动和选中态正确，选择无效箱子/储罐时保留编辑并禁止锁定；平面可密封但无碰撞；多腔求和且内部装饰导致验证失败；箱子 `1728 -> 27`、`63 -> 失败`、`64 -> 1`；储罐 `2744 -> 16 B`、`170 -> 失败`、`171 -> 1 B`；容量不设额外上限；大容量浮窗不爆包；多种流体的 ID、组件、数量和顺序完整往返；0°/30°/45°/90° 和连续变化的重力下液体体积不变；凹形、细管、多腔和平面密封模型不穿模、不留非预期空洞、流体层不重叠；托盘不出现可用选项或猜测行为。
 
 **本项不包含**：托盘的验证器、容量、承载或搬运功能。
